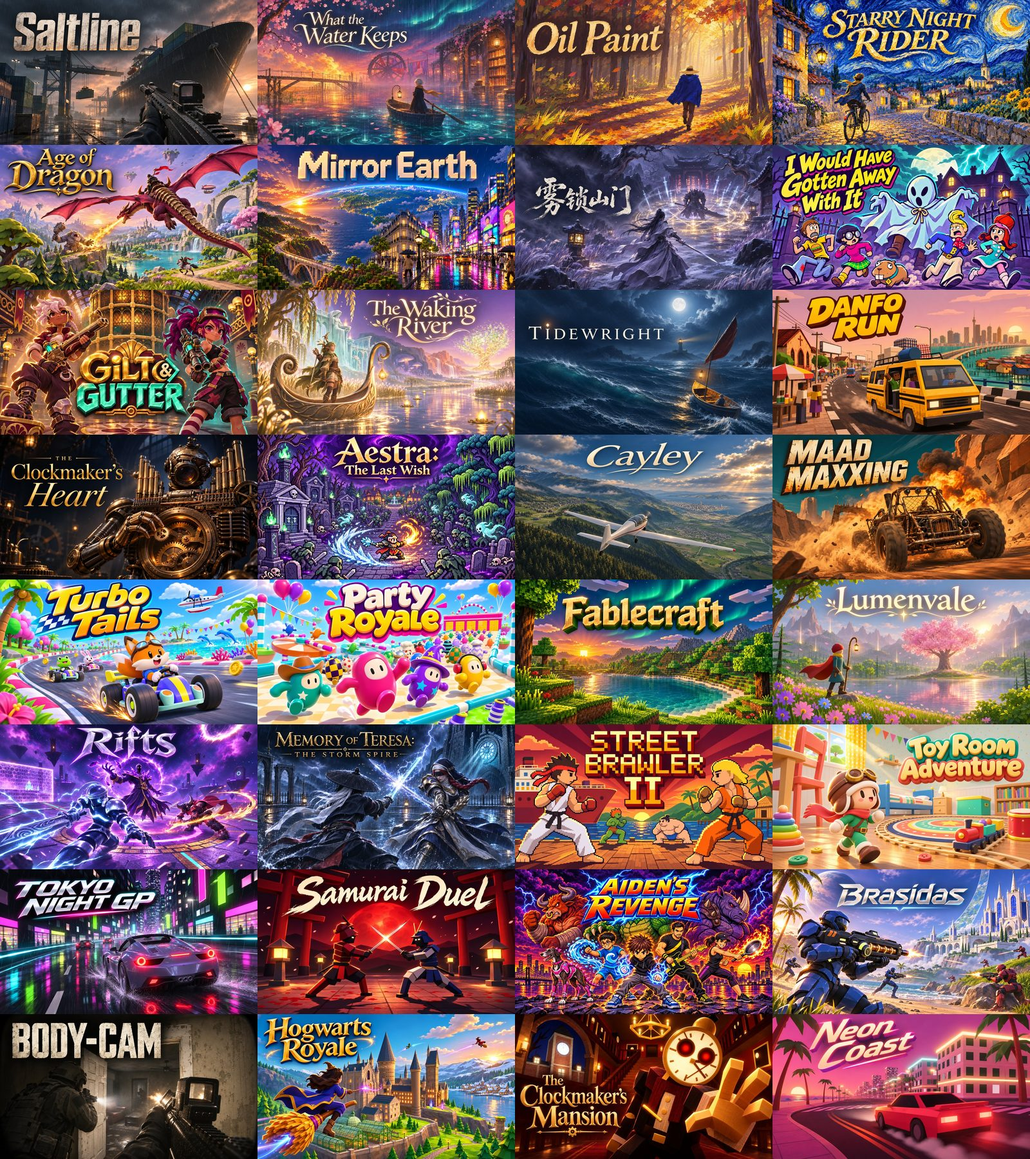
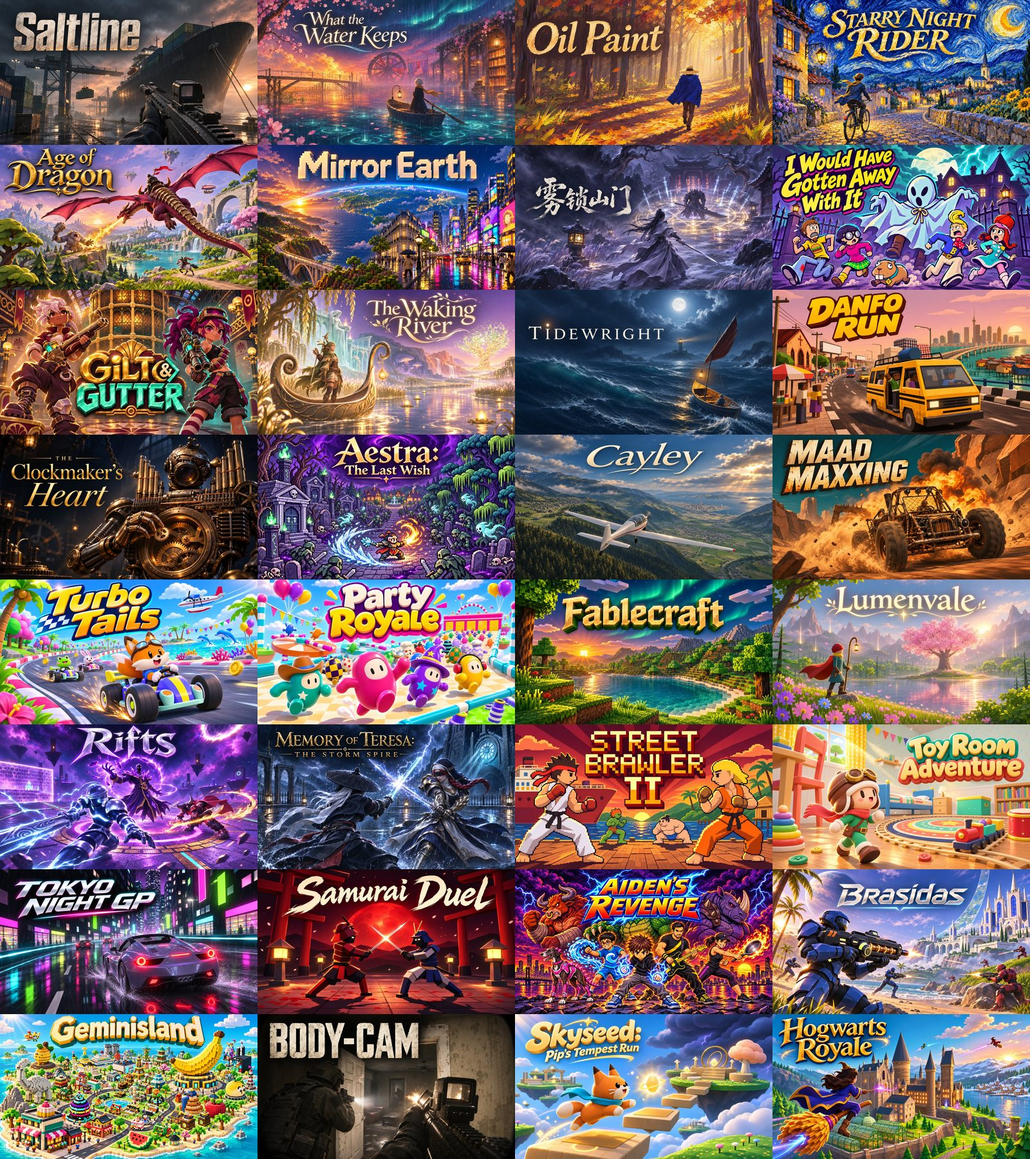
Add two Gemini 4 Hydrogen games: Google's Geminisland and Skyseed: Pip's Tempest Run

Changed region(s): [[0.0, 0.8711, 1.0, 1.0]]

diff --git a/README.md b/README.md
@@ -1,12 +1,12 @@
 # Awesome Claude Fable Games
 
-[![Awesome](https://awesome.re/badge.svg)](https://awesome.re) ![Games](https://img.shields.io/badge/games-32-8a5cf6) ![Playable](https://img.shields.io/badge/playable_in_browser-23-22c55e) ![Prompts](https://img.shields.io/badge/verbatim_prompts-5-f59e0b) [![License: MIT](https://img.shields.io/badge/license-MIT-blue)](LICENSE)
+[![Awesome](https://awesome.re/badge.svg)](https://awesome.re) ![Games](https://img.shields.io/badge/games-34-8a5cf6) ![Playable](https://img.shields.io/badge/playable_in_browser-25-22c55e) ![Prompts](https://img.shields.io/badge/verbatim_prompts-5-f59e0b) [![License: MIT](https://img.shields.io/badge/license-MIT-blue)](LICENSE)
 
 <a href="https://vibegamer.io?utm_source=github&utm_medium=readme&utm_campaign=awesome-claude-fable-games"><img src="assets/mosaic.jpg" alt="A wall of covers for games made with Claude Fable 5.2: a wuxia mountain shrine, a Van Gogh bike ride, a desert car battle, a voxel Earth and more" width="100%"></a>
 
 A curated list of **games made with AI coding models**, most of them with Claude Fable 5.2, Anthropic's model released on November 9, 2026: browser games you can play right now, Unreal and Roblox projects, and one-prompt experiments. Each game names the model its maker says they used. Every game is credited to its maker and linked to the post where they shared it. Where the maker published the prompt, it's copied here word for word.
 
-**32 games · 23 playable in the browser · 5 with prompts** · Updated 2026-11-13
+**34 games · 25 playable in the browser · 5 with prompts** · Updated 2026-11-13
 
 Most games also have a page on **[vibegamer.io](https://vibegamer.io?utm_source=github&utm_medium=readme&utm_campaign=awesome-claude-fable-games)** with its trailer, screenshots and a play button.
 
@@ -54,7 +54,9 @@ Sorted by our score, then by likes on the original post.
 | <a href="#samurai-duel"><img src="assets/covers/samurai-duel.jpg" width="160" alt="Samurai Duel cover"></a> | **[Samurai Duel](#samurai-duel)** | [@tymarsha](https://x.com/tymarsha) | Claude Fable 5.2 | video only | [X](https://x.com/tymarsha/status/2119904015454810582) |  |  | 8/10 |
 | <a href="#aidens-revenge"><img src="assets/covers/aidens-revenge.jpg" width="160" alt="Aiden's Revenge cover"></a> | **[Aiden's Revenge](#aidens-revenge)** | Lex Toumbourou | Claude Fable 5.2 | [▶ Play URL](https://aidens-revenge.pages.dev/) | [blog post](https://notesbylex.com/fable-5-2-one-shotted-my-nephews-dream-game) |  |  | 8/10 |
 | <a href="#brasidas"><img src="assets/covers/brasidas.jpg" width="160" alt="Brasidas cover"></a> | **[Brasidas](#brasidas)** | [Mike Houser](https://x.com/M__Houser) | Tesana (model not stated) | [▶ Play URL](https://tesana.com/game/brasidas) | [X](https://x.com/TesanaAI/status/2115049380382437886) |  |  | 8/10 |
+| <a href="#geminisland"><img src="assets/covers/geminisland.jpg" width="160" alt="Geminisland cover"></a> | **[Geminisland](#geminisland)** | [Google AI](https://x.com/GoogleAI) | Gemini 4 Hydrogen | [▶ Play URL](https://aistudio.google.com/apps/bundled/geminisland?showPreview=true&showAssistant=true&fullscreenApplet=true) | [X](https://x.com/GoogleAI/status/2120940684924403798) |  |  | 8/10 |
 | <a href="#body-cam"><img src="assets/covers/body-cam.jpg" width="160" alt="BODY-CAM cover"></a> | **[BODY-CAM](#body-cam)** | Juicer | Tesana (model not stated) | [▶ Play URL](https://tesana.com/game/body-cam) | [X](https://x.com/TesanaAI/status/2112043090043449620) |  |  | 7.8/10 |
+| <a href="#skyseed-pips-tempest-run"><img src="assets/covers/skyseed-pips-tempest-run.jpg" width="160" alt="Skyseed: Pip's Tempest Run cover"></a> | **[Skyseed: Pip's Tempest Run](#skyseed-pips-tempest-run)** | [Sahil Panhotra](https://x.com/SahilPanhotra) | Gemini 4 Hydrogen | [▶ Play URL](https://01a1b677-97ba-7006-a384-e83b3e5793db.arena.site/) | [X](https://x.com/SahilPanhotra/status/2119102771173769262) | 60 |  | 7.5/10 |
 | <a href="#hogwarts-royale"><img src="assets/covers/hogwarts-royale.jpg" width="160" alt="Hogwarts Royale cover"></a> | **[Hogwarts Royale](#hogwarts-royale)** | [Matt Shumer](https://x.com/mattshumer_) | Claude Fable 5.2 | [▶ Play URL](https://www.spawn.co/@mattshumer/hogwarts-royale) | [X](https://x.com/mattshumer_/status/2119872098306810226) | 307 | ✓ | 7/10 |
 | <a href="#the-clockmakers-mansion"><img src="assets/covers/the-clockmakers-mansion.jpg" width="160" alt="The Clockmaker's Mansion cover"></a> | **[The Clockmaker's Mansion](#the-clockmakers-mansion)** | [@mihawkxxxxx](https://x.com/mihawkxxxxx) | Claude Fable 5.2 | video only | [X](https://x.com/mihawkxxxxx/status/2119909865296699749) | 11 |  | 7/10 |
 | <a href="#neon-coast"><img src="assets/covers/neon-coast.jpg" width="160" alt="Neon Coast cover"></a> | **[Neon Coast](#neon-coast)** | [@ashwinntwt](https://x.com/ashwinntwt) | Claude Fable 5.2 | video only | [X](https://x.com/ashwinntwt/status/2119890312382603459) | 8 |  | 7/10 |
@@ -597,6 +599,24 @@ A Halo-style 10v10 team shooter on a ring world: storm a tropical beach or fight
 
 <sub>Our score: 8/10 for visuals and polish.</sub>
 
+### Geminisland
+<a id="geminisland"></a>
+
+<a href="https://vibegamer.io/game/geminisland?utm_source=github&utm_medium=readme&utm_campaign=awesome-claude-fable-games"><img src="assets/covers/geminisland.jpg" alt="Geminisland: cover art" width="100%"></a>
+
+Google's launch demo for Gemini 4 Hydrogen: a shared voxel island where one prompt, like "huge banana statue", becomes a building in seconds, then you walk the streets and step inside in first person. Opens in Google AI Studio (Google sign-in needed).
+
+<p><img src="https://cdn.vibegamer.io/submissions/e6df3cb0-5fb4-432e-bb6a-804f3d44ce1c-geminisland-shot-1.jpg" width="32%" alt="Geminisland gameplay screenshot"> <img src="https://cdn.vibegamer.io/submissions/e0ea3333-bb0d-41bb-bd1c-e9f6f42a2381-geminisland-shot-2.jpg" width="32%" alt="Geminisland gameplay screenshot"> <img src="https://cdn.vibegamer.io/submissions/696a9443-4261-4835-a449-a3fb3ee8dc8c-geminisland-shot-3.jpg" width="32%" alt="Geminisland gameplay screenshot"></p>
+
+- **Made by:** Google AI ([@GoogleAI](https://x.com/GoogleAI))
+- **Model:** Gemini 4 Hydrogen
+- **Geminisland game URL:** https://aistudio.google.com/apps/bundled/geminisland?showPreview=true&showAssistant=true&fullscreenApplet=true
+- **Original post:** https://x.com/GoogleAI/status/2120940684924403798
+- **Tags:** Sandbox, 3D, Multiplayer
+- **Geminisland on VibeGamer (trailer, screenshots, reviews):** [vibegamer.io/game/geminisland](https://vibegamer.io/game/geminisland?utm_source=github&utm_medium=readme&utm_campaign=awesome-claude-fable-games)
+
+<sub>Our score: 8/10 for visuals and polish.</sub>
+
 ### BODY-CAM
 <a id="body-cam"></a>
 
@@ -614,6 +634,24 @@ A realistic body-camera police shooter: serve a warrant at 1147 Elm St. and clea
 - **BODY-CAM on VibeGamer (trailer, screenshots, reviews):** [vibegamer.io/game/body-cam](https://vibegamer.io/game/body-cam?utm_source=github&utm_medium=readme&utm_campaign=awesome-claude-fable-games)
 
 <sub>Our score: 7.8/10 for visuals and polish.</sub>
+
+### Skyseed: Pip's Tempest Run
+<a id="skyseed-pips-tempest-run"></a>
+
+<a href="https://vibegamer.io/game/skyseed-pips-tempest-run?utm_source=github&utm_medium=readme&utm_campaign=awesome-claude-fable-games"><img src="assets/covers/skyseed-pips-tempest-run.jpg" alt="Skyseed: Pip's Tempest Run: cover art" width="100%"></a>
+
+A cute one-level 3D platformer from one prompt to Gemini 4 Hydrogen: guide Pip the sky-cat across three floating islands and grab all 12 sun-seeds before the storm hits in 90 seconds.
+
+<p><img src="https://cdn.vibegamer.io/submissions/1dc400c1-f5f0-4b4f-ae5f-6280d6a6e784-skyseed-pips-tempest-run-shot-1.jpg" width="32%" alt="Skyseed: Pip's Tempest Run gameplay screenshot"> <img src="https://cdn.vibegamer.io/submissions/0e73811e-b466-4e75-9370-b51aa6d9b60a-skyseed-pips-tempest-run-shot-2.jpg" width="32%" alt="Skyseed: Pip's Tempest Run gameplay screenshot"> <img src="https://cdn.vibegamer.io/submissions/01cae1af-0e72-45cc-bb18-e8e06d11663f-skyseed-pips-tempest-run-shot-3.jpg" width="32%" alt="Skyseed: Pip's Tempest Run gameplay screenshot"></p>
+
+- **Made by:** Sahil Panhotra ([@SahilPanhotra](https://x.com/SahilPanhotra))
+- **Model:** Gemini 4 Hydrogen
+- **Skyseed: Pip's Tempest Run game URL:** https://01a1b677-97ba-7006-a384-e83b3e5793db.arena.site/
+- **Original post:** https://x.com/SahilPanhotra/status/2119102771173769262 (60 likes, checked November 13, 2026)
+- **Tags:** Platformer, 3D, Cosy
+- **Skyseed: Pip's Tempest Run on VibeGamer (trailer, screenshots, reviews):** [vibegamer.io/game/skyseed-pips-tempest-run](https://vibegamer.io/game/skyseed-pips-tempest-run?utm_source=github&utm_medium=readme&utm_campaign=awesome-claude-fable-games)
+
+<sub>Our score: 7.5/10 for visuals and polish.</sub>
 
 ### Hogwarts Royale
 <a id="hogwarts-royale"></a>
